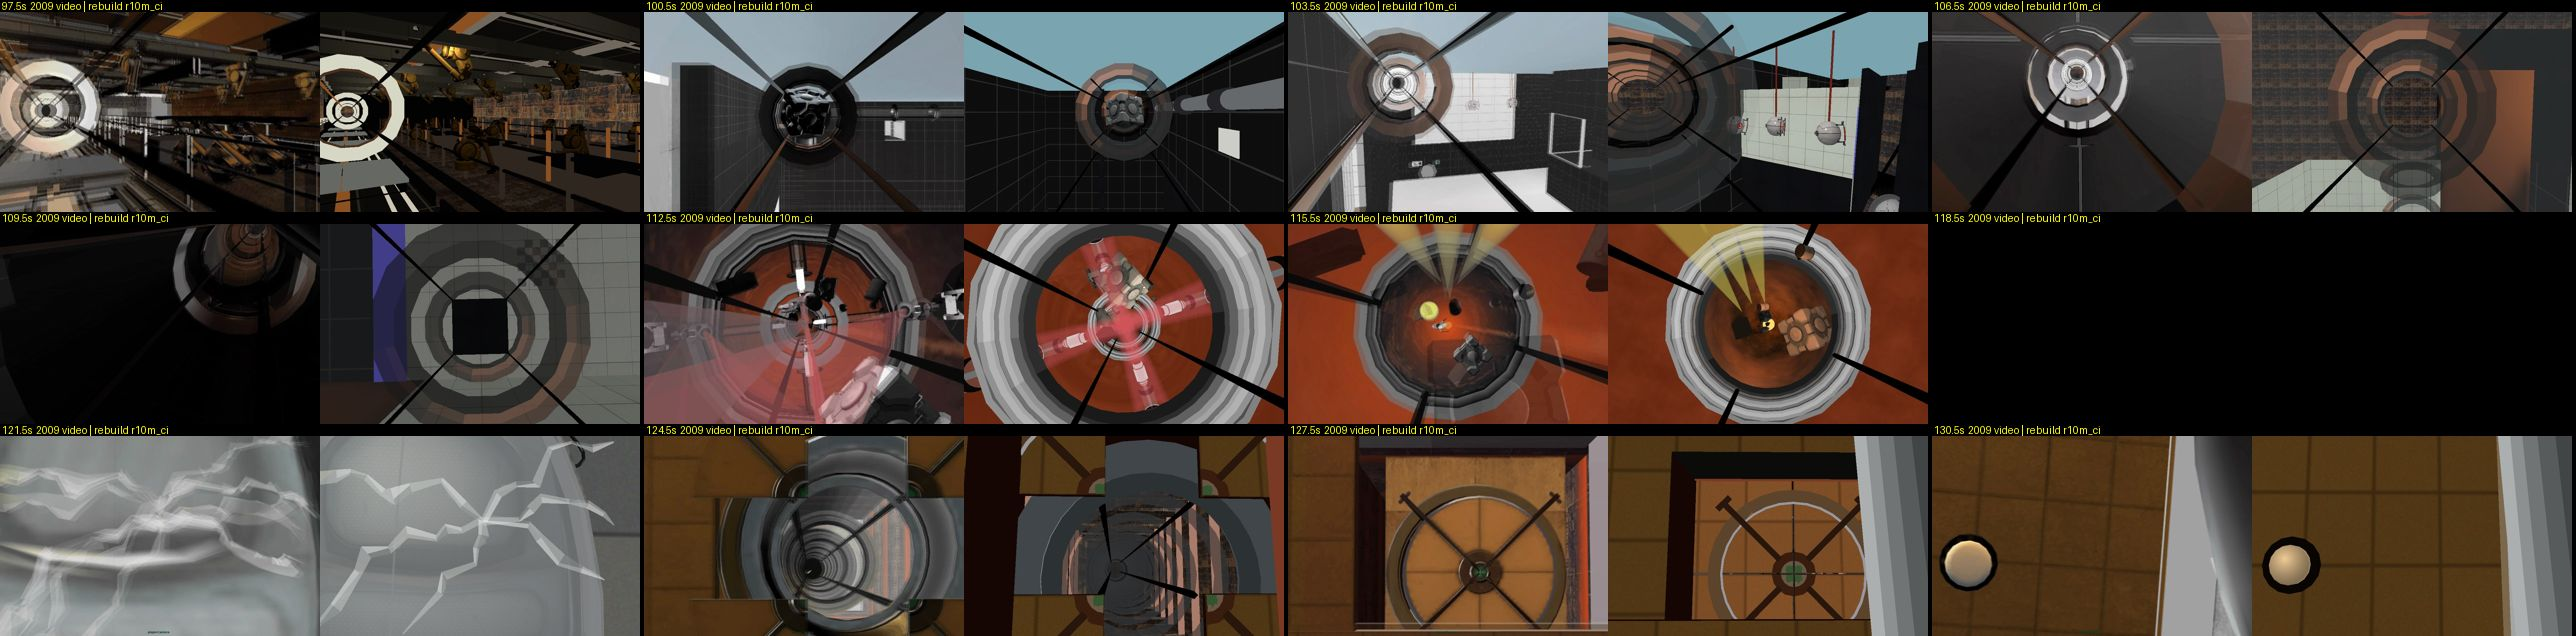
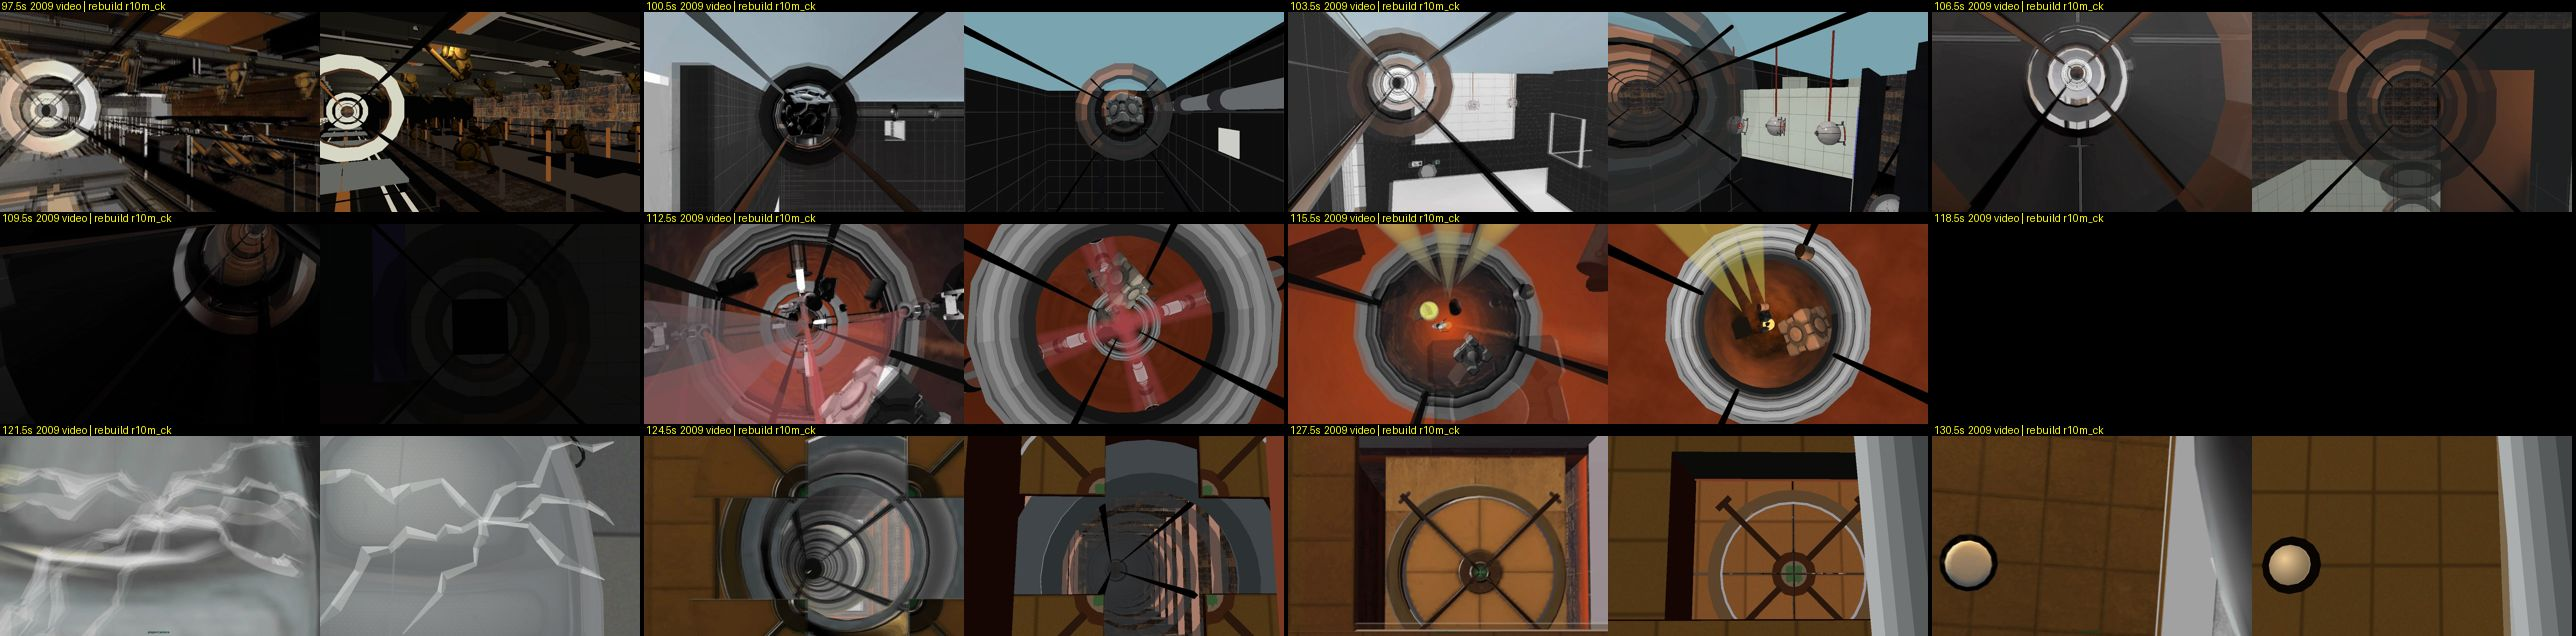
Corehub intro rebuild (corehub_r10ck + director_r10cl; newest test r10cm)
Separated middle rooms, frontal walls, WIP surfaces, 60 fps test runs; see corehub/intro/README.md for per-scene scores.

Claude-Session: https://claude.ai/code/session_014AMsH7FRGKMAJSenMpS1Ga

diff --git a/corehub/intro/tools/patch_director.py b/corehub/intro/tools/patch_director.py
@@ -214,7 +214,17 @@ fades = [[62.9,63.05,0,235],[63.05,63.3,235,0],[52.45,52.55,0,110],[52.55,52.68,
          [105.9,106.0,200,200],[106.0,106.25,200,158],[106.25,106.5,158,72],[106.5,106.75,72,56],[106.75,107.0,56,50],[107.0,107.25,50,18],[107.25,107.5,18,0],
          [108.55,108.67,0,94],[108.67,108.8,94,59],[108.8,108.93,59,92],[108.93,109.07,92,150],[109.07,109.2,150,196],[109.2,109.4,196,224],[109.4,109.6,224,240],[109.6,109.71,240,255],
          # r10cj: the video passes through the inlet iris in the dark (74.7-75.5 s: 20-54 against our 62-82)
-         [74.63,74.7,0,70],[74.7,74.83,70,120],[74.83,74.97,120,138],[74.97,75.03,138,175],[75.03,75.17,175,128],[75.17,75.3,128,71],[75.3,75.5,71,64],[75.5,75.57,64,0]]
+         [74.63,74.7,0,70],[74.7,74.83,70,120],[74.83,74.97,120,138],[74.97,75.03,138,175],[75.03,75.17,175,128],[75.17,75.3,128,71],[75.3,75.5,71,64],[75.5,75.57,64,0],
+         # r10ck: where ours read brighter than the video (smoothed frame-mean ratio 0.5-0.8): the lower rust run past junction E,
+         # the scanner iris approach, the gallery turn, the 98 s factory ring and the incinerator descent
+         [36.82,36.95,0,75],[36.95,37.15,75,95],[37.15,37.35,95,65],[37.35,37.5,65,20],[37.5,37.75,20,30],[37.75,37.8,30,0],
+         [80.68,80.78,0,100],[80.78,80.95,100,100],[80.95,81.05,100,60],[81.05,81.15,60,0],
+         [91.82,91.92,0,55],[91.92,92.05,55,72],[92.05,92.2,72,40],[92.2,92.6,40,35],[92.6,92.8,35,0],
+         [97.95,98.05,0,60],[98.05,98.12,60,123],[98.12,98.25,123,80],[98.25,98.45,80,20],[98.45,98.5,20,0],
+         [111.35,111.5,0,60],[111.5,111.7,60,95],[111.7,111.85,95,115],[111.85,112.05,115,65],[112.05,112.95,65,50],[112.95,113.15,50,5],
+         [113.15,113.35,5,20],[113.35,113.55,20,58],[113.55,113.95,58,38],[113.95,114.12,38,0],
+         # r10cm: the lift descent beside the collar reads brighter than the video (63.97-65.4 s, ratio 0.52-0.8)
+         [63.97,64.1,0,115],[64.1,64.6,115,105],[64.6,64.85,105,75],[64.85,65.1,75,35],[65.1,65.5,35,0]]
 anchor = '    SetScreenBlack(fadeAlpha);'
 assert txt.count(anchor) == 1
 txt = txt.replace(anchor, '    foreach(f in r10Fades) if(t>=f[0] && t<f[1]){local k=(t-f[0])/(f[1]-f[0]);local a=(f[2]+(f[3]-f[2])*k).tointeger();if(a>fadeAlpha)fadeAlpha=a;}\n' + anchor)

diff --git a/corehub/intro/tools/patch_r10.py b/corehub/intro/tools/patch_r10.py
@@ -1249,6 +1249,17 @@ for k in range(16):
 v.create_ent('func_brush', targetname='r10_pod_sleeve', Solidity='1', spawnflags='2', rendermode='0', renderamt='255',
              rendercolor='255 255 255', disablereceiveshadows='1', disableshadows='1', vrad_brush_cast_shadows='0').solids.extend(pv)
 print('pod sleeve', len(pv), sum(1 for so in pv for f in so.sides if 'pod_veil' in f.mat))
+# ---------- r10cl: factory walkway (96.6-99.8 s) ----------
+# the video's walkway under the tube reads lighter and warmer than ours (97-97.25 s: 75/74/72 vs 60/58/54; 99.25-99.5 s:
+# 83-113/65-83/52-59 vs 68-72/66-68/60-61)
+(MOD / 'materials/corehub_intro/p9_factory_v4_floor.vmt').write_text(
+    '"UnlitGeneric"\n{\n"$basetexture" "metal/black_wall_metal_002a"\n"$color" "[0.66 0.59 0.49]"\n"$model" "1"\n}\n')
+(MOD / 'materials/corehub_intro/p9_factory_v7_plate.vmt').write_text(
+    '"UnlitGeneric"\n{\n"$basetexture" "lights/white002"\n"$color" "[0.48 0.48 0.46]"\n"$surfaceprop" "metal"\n}\n')
+# ---------- r10cm: the lift's hanging tubes ----------
+# the video's tubes under the lift collar read dark grey, ours near black (65.6-66.3 s our frames 35-46 vs the video's 50-64)
+(MOD / 'materials/models/corehub_intro/r10_tu_tube.vmt').write_text(
+    '"UnlitGeneric"\n{\n"$basetexture" "lights/white002"\n"$color" "[0.16 0.16 0.165]"\n"$model" "1"\n}\n')
 dst = R10 / 'build' / (NAME + '.vmf')
 v.export(dst.open('w'), inc_version=False)
 print('wrote', dst, len(added), 'boxes')

diff --git a/corehub/intro/README.md b/corehub/intro/README.md
@@ -38,7 +38,7 @@ r10 is built on top of the newest pursuit9 map (capsule-follow v50: walkable ope
 
 ## Scores (1–10, against the 2009 video; ending blink/black not scored)
 
-Published build: `corehub_r10ci` + `director_r10ci` (outputs/Corehub-Intro). Test run: `videos/r10m_ci_side.mp4`.
+Published build: `corehub_r10ck` + `director_r10ck` (outputs/Corehub-Intro). Test run: `videos/r10m_ck_side.mp4`.
 
 | # | Scene | Time (s) | v50 base | r10 now | Main remaining differences |
 |---|---|---|---|---|---|
@@ -49,11 +49,11 @@ Published build: `corehub_r10ci` + `director_r10ci` (outputs/Corehub-Intro). Tes
 | 5 | Cube passage | 48–55 | 4.5 | 8.8 | r10bx: a dark sleeve hides the cube room until 50.6 s, so the run from the pale wall is the video's dark tube (49.25-50.5 s); cube hidden until 51.5 s |
 | 6 | Processing tower | 55.3–65 | 4.5 | 9 | r10bn/bp: the camera's own climb tube is hidden during the climb (58.6–63.9 s) so the scanning column, rings, lasers and rust wall read clear like the video; the view stays on the column until ~63.85 s |
 | 7 | Turret and "16" inlet | 65–74 | 5 | 9 | r10cb-cd: the inlet iris shot works again (its first knots had slipped behind a comment, so 71.34-71.8 s swept from the turret yaw); the iris reads as the video's (flat petals in a square round a grey frame); r10bv-by: the glare is a screen-space lens veil with a red glow that follows the turret (wall sd 3 like the video, legs R +60); the camera sits 56 units from the turret and follows the video's eye track; the descent comes in beside the lift collar and looks down past the tubes hanging from it into the floor ring (64-66.5 s); the cut to the inlet iris (71.34 s) is in |
-| 8 | Transfer and scanners | 74–83 | 5 | 8.8 | r10cc/cd: the iris view looks straight down at the iris set in a flat rust floor with black beams and a darker right panel like the video (81-82.3 s), the iris opens at 82.3 s and the camera passes through by 82.6 s; r10ca: both arms' white links and mounts leave the 81.1–82.5 s iris view; r10bs-bz: the scanner head and cones pass under the lens inside the white ring (80-80.75 s); the second arm and the exit collar leave the 81-82.4 s iris view, the camera holds lower |
+| 8 | Transfer and scanners | 74–83 | 5 | 8.9 | r10cj: the cake sits on the closed flat-petal iris until the camera drops through it in the dark like the video (74-75.5 s; SSIM 0.18 -> 0.30 at 74.5 s, 0.33 -> 0.63 at 75 s); r10cc/cd: the iris view looks straight down at the iris set in a flat rust floor with black beams and a darker right panel like the video (81-82.3 s), the iris opens at 82.3 s and the camera passes through by 82.6 s; r10ca: both arms' white links and mounts leave the 81.1–82.5 s iris view; r10bs-bz: the scanner head and cones pass under the lens inside the white ring (80-80.75 s); the second arm and the exit collar leave the 81-82.4 s iris view, the camera holds lower |
 | 9 | Copper tube, sludge room, gallery | 84.5–95.7 | 4 | 8.8 | r10bz: the sludge room is framed wider (camera 40 higher, 40 back) like the video; the gallery lattice is taller and nearer under the tube so it fills the lower third (91-93.75 s) |
-| 10 | Factory passage | 96.6–99.8 | 6 | 8.6 | r10cg: the collar that filled the 98 s frame as a dark block leaves the shot (97.95-98.08 s); r10bj/bm: floor and benches beyond the walkway darkened to the video's near-black (the walkway stays mid grey); 98 s collar darkened for its frame |
-| 11 | Lab and test chamber | 100–109.5 | 4 | 9 | r10bl: from the tube the video sees black tiles with a grey pipe and a small white sign on the right (a screen hides the test chamber until the 102.8 s turn); chamber view matches |
-| 12 | Incinerator and final probes | 110–118.4 | 5.5 | 8.7 | r10ch: the dark frame over the furnace leaves at 111.9 s, so the shaft reads orange round the light tubes like the video (113 s SSIM 0.19 -> 0.39); r10bb: rust floor round the top collar and a dark plate round the iris hide the orange annulus (110–111.3 s); chamber orange toned down; the video's ball passes closer (115 s) |
+| 10 | Factory passage | 96.6–99.8 | 6 | 8.6 | r10ck: the 98 s ring dims like the video (98.0-98.45 s); r10cg: the collar that filled the 98 s frame as a dark block leaves the shot (97.95-98.08 s); r10bj/bm: floor and benches beyond the walkway darkened to the video's near-black (the walkway stays mid grey); 98 s collar darkened for its frame |
+| 11 | Lab and test chamber | 100–109.5 | 4 | 9 | r10cj: the lab tube opens as dark as the video (106-107.25 s) and goes dark inside the tube from 108.6 s like the video (SSIM 0.13 -> 0.47 at 109.5 s); r10bl: from the tube the video sees black tiles with a grey pipe and a small white sign on the right (a screen hides the test chamber until the 102.8 s turn); chamber view matches |
+| 12 | Incinerator and final probes | 110–118.4 | 5.5 | 8.7 | r10ck: the descent past the light tubes is as dim as the video (111.35-114.1 s, frame-mean ratio 0.6-0.8 before); r10ch: the dark frame over the furnace leaves at 111.9 s, so the shaft reads orange round the light tubes like the video (113 s SSIM 0.19 -> 0.39); r10bb: rust floor round the top collar and a dark plate round the iris hide the orange annulus (110–111.3 s); chamber orange toned down; the video's ball passes closer (115 s) |
 | 13 | Capsule and ending | 118.4–134 | 6 | 8.7 | r10cg: the square frames on the capsule approach have salmon-red sides like the video's strips (119.4-120.8 s); the capsule glass is neutral grey (was teal); r10bg: rings frame the capsule until ~120.9 s; the turn holds on the close concrete wall (123.35–123.65 s) before the dip to the vault doorway; tube walls still grey where the video shows red-orange strips |
 
 ## Objective check
